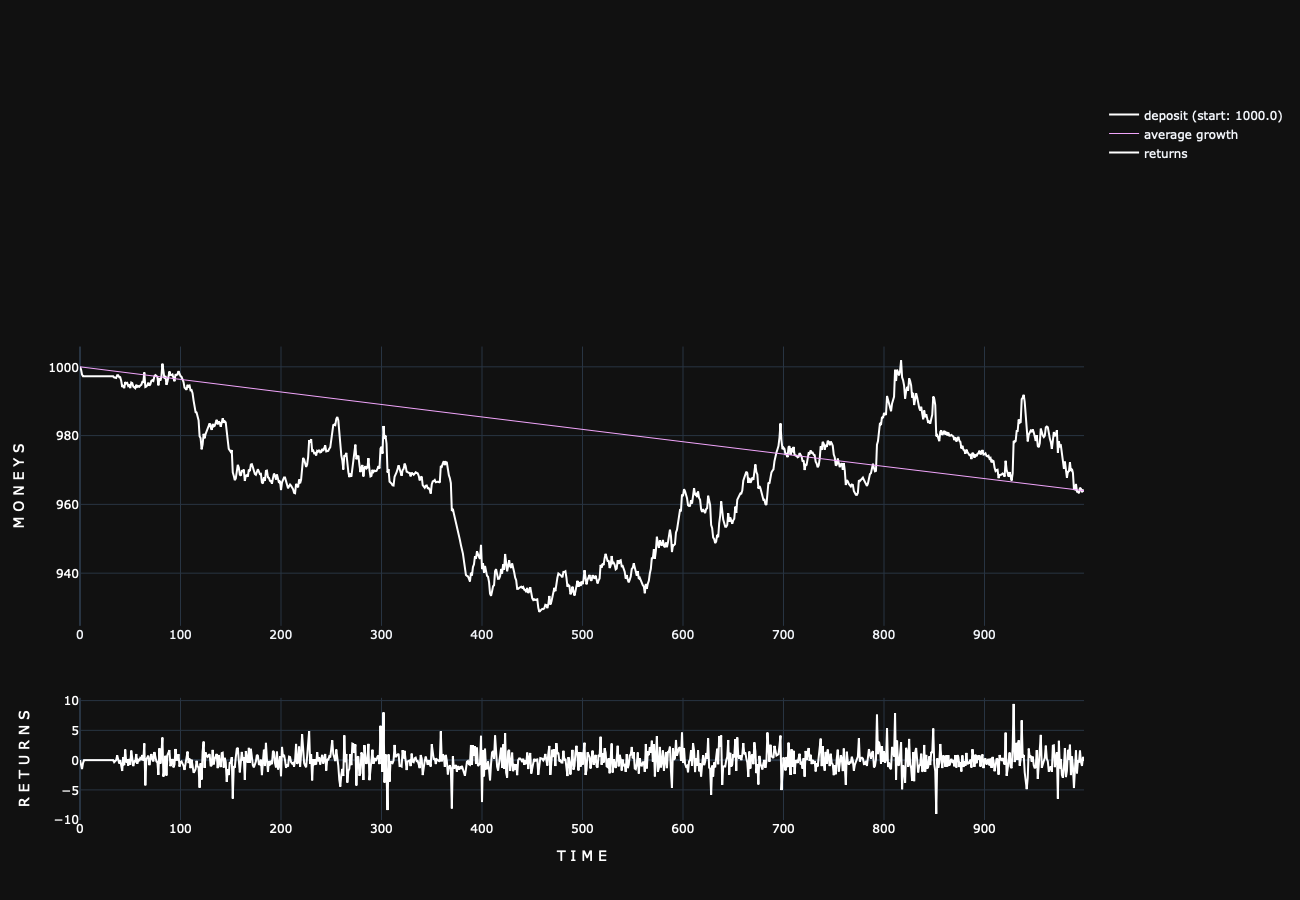
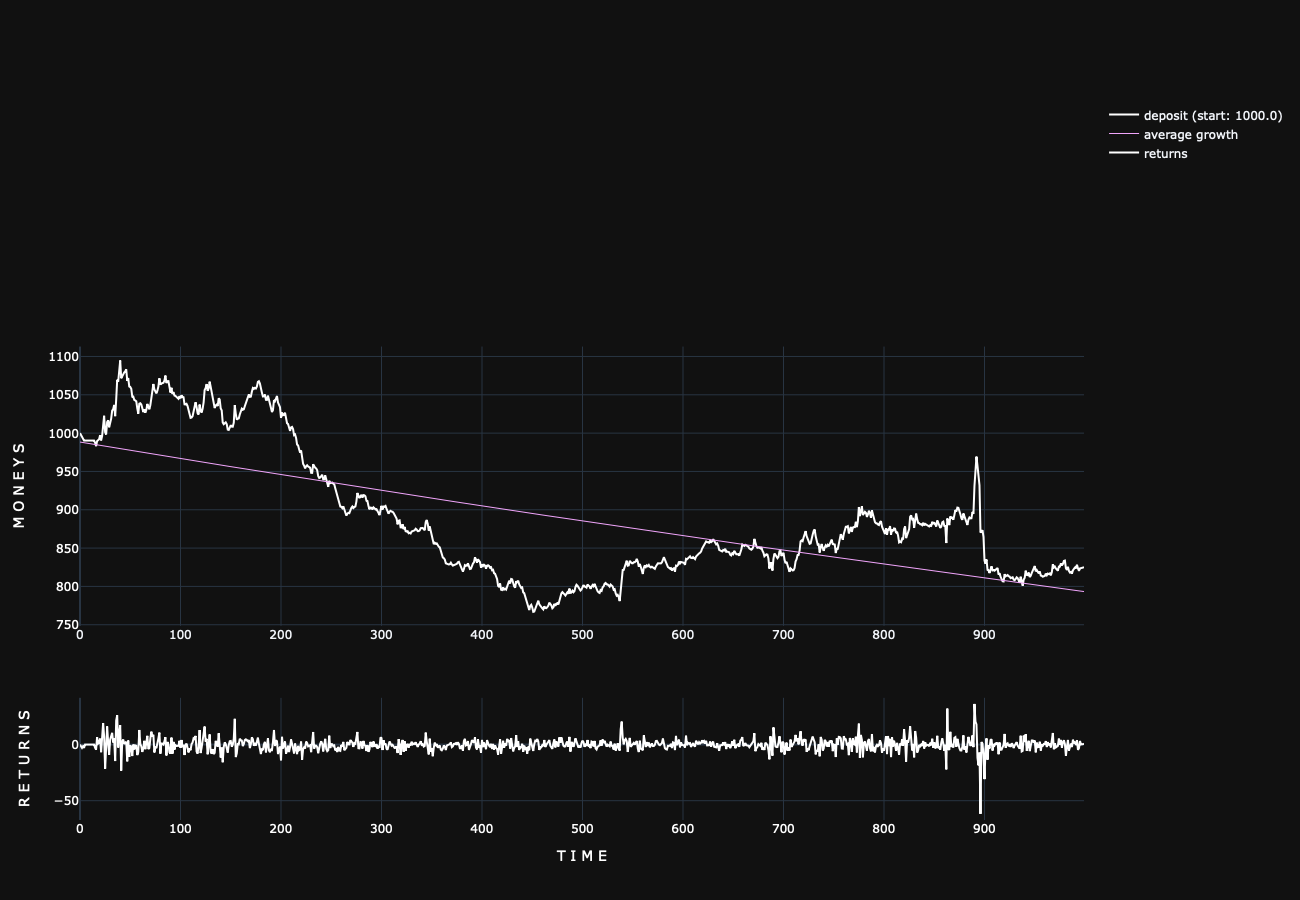
docs

diff --git a/docs/docs/quick_trade/trading_sys.md b/docs/docs/quick_trade/trading_sys.md
@@ -13,7 +13,7 @@ A class in which you can trade and test strategies.
 |interval|str| timeframe:1m 2m 3m 5m 15m 30m 45m 1h 90m 2h 3h 4h 12h 1d 3d 1w 1M 3M 6M|
 
 ```python
-from quick_trade.trading_sys import Trader
+from quick_trade.trading_sys import Trader, ExampleStrategies
 from quick_trade.brokers import TradingClient
 import ccxt
 
@@ -155,7 +155,12 @@ and `self._credit_leverages`.
 ?> The commission does not reduce the trade itself, but decreases the deposit, but if the deposit becomes less than the desired trade, deal is immediately reduced to the level of the deposit.
 
 ```python
-trader.connect_graph()
+from quick_trade.plots import *
+
+
+fig = make_figure()
+graph = QuickTradeGraph(figure=fig)
+trader.connect_graph(graph)
 
 # At this point, you need to use the strategy
 
@@ -184,12 +189,20 @@ A method for testing a strategy on several symbols.
 ```python
 import numpy as np
 
+client = TradingClient(ccxt.binance())
+trader = ExampleStrategies(ticker='ETH/BTC',
+                           interval='5m')
+
+fig = make_figure()
+graph = QuickTradeGraph(figure=fig)
+trader.connect_graph(graph)
 trader.set_client(client)
+
 trader.multi_backtest(['BTC/USDT',
                        'ETH/USDT',
                        'LTC/USDT'],
                       strategy_name='strategy_supertrend',
-                      strategy_kwargs=dict(multiplier=2, length=1),
+                      strategy_kwargs=dict(multiplier=2, length=1, plot=False),
                       deposit=1700,
                       commission=0.075,
                       bet=np.inf,
@@ -198,12 +211,13 @@ trader.multi_backtest(['BTC/USDT',
 
 output:
 
-```
-losses: 90
-trades: 88
-profits: 88
-mean year percentage profit: 436.3006580276444%
-winrate: 49.9921984709003%
+```commandline
+losses: 146
+trades: 68
+profits: 68
+mean year percentage profit: -92.25033539138768%
+winrate: 31.566354534845413%
+mean deviation: 4.637481539757627%
 ```
 
 ![image](https://github.com/VladKochetov007/quick_trade/blob/master/img/multi_backtest.png?raw=true)

diff --git a/README.md b/README.md
@@ -166,10 +166,12 @@ params = {
 ## User's code example (backtest)
 
 ```python
-import quick_trade.trading_sys as qtr
-import ccxt
 from quick_trade import brokers
-from quick_trade.plots import make_figure, QuickTradeGraph
+from quick_trade import trading_sys as qtr
+from quick_trade.plots import *
+import ccxt
+from numpy import inf
+
 
 client = brokers.TradingClient(ccxt.binance())
 df = client.get_data_historical('BTC/USDT', '15m', 1000)
@@ -177,7 +179,7 @@ trader = qtr.ExampleStrategies('BTC/USDT', df=df, interval='15m')
 trader.set_client(client)
 trader.connect_graph(QuickTradeGraph(make_figure(height=731, width=1440, row_heights=[10, 5, 2])))
 trader.strategy_2_sma(55, 21)
-trader.backtest(deposit=1000, commission=0.075, bet=qtr.utils.np.inf)  # backtest on one pair
+trader.backtest(deposit=1000, commission=0.075, bet=inf)  # backtest on one pair
 ```
 
 ## Output plotly chart:
@@ -186,12 +188,13 @@ trader.backtest(deposit=1000, commission=0.075, bet=qtr.utils.np.inf)  # backtes
 
 ## Output print
 
-```
-losses: 7
-trades: 16
-profits: 9
-mean year percentage profit: 541.9299012354617%
-winrate: 56.25%
+```commandline
+losses: 18
+trades: 25
+profits: 7
+mean year percentage profit: -8.471933037953615%
+winrate: 28.000000000000004%
+mean deviation: 1.3587506741755202%
 ```
 
 ## Run strategy

diff --git a/docs/docs/quick_trade/README.md b/docs/docs/quick_trade/README.md
@@ -136,11 +136,12 @@ trader.backtest(deposit=1000,
 Result:
 
 ```commandline
-losses: 39
-trades: 68
-profits: 26
-mean year percentage profit: -99.98989936325025%
-winrate: 38.23529411764706%
+losses: 64
+trades: 95
+profits: 25
+mean year percentage profit: -99.99999896786758%
+winrate: 26.31578947368421%
+mean deviation: 1.4569306356613254%
 ```
 
 ![image](https://raw.githubusercontent.com/VladKochetov007/quick_trade/master/img/simple_backtest_example.png)
@@ -174,11 +175,12 @@ trader.multi_backtest(tickers=['BTC/USDT',
 Result:
 
 ```commandline
-losses: 76
-trades: 40
-profits: 40
-mean year percentage profit: 585.9944401169377%
-winrate: 32.65594541910331%
+losses: 92
+trades: 36
+profits: 36
+mean year percentage profit: -99.75637914387364%
+winrate: 26.407268062042323%
+mean deviation: 5.669772760548183%
 ```
 
 ![image](https://github.com/VladKochetov007/quick_trade/blob/master/img/multi_backtest_example.png?raw=true)

diff --git a/docs/docs/quick_trade/utils.md b/docs/docs/quick_trade/utils.md
@@ -151,10 +151,10 @@ get `pd.Series` with supertrend predictions
 
 get all supertrend data as `pd.DataFrame`:
 
-    - Supertrend
-    - strategy predictions
-    - lower
-    - upper
+- Supertrend
+- strategy predictions
+- lower
+- upper
 
 ## get_exponential_growth
 
